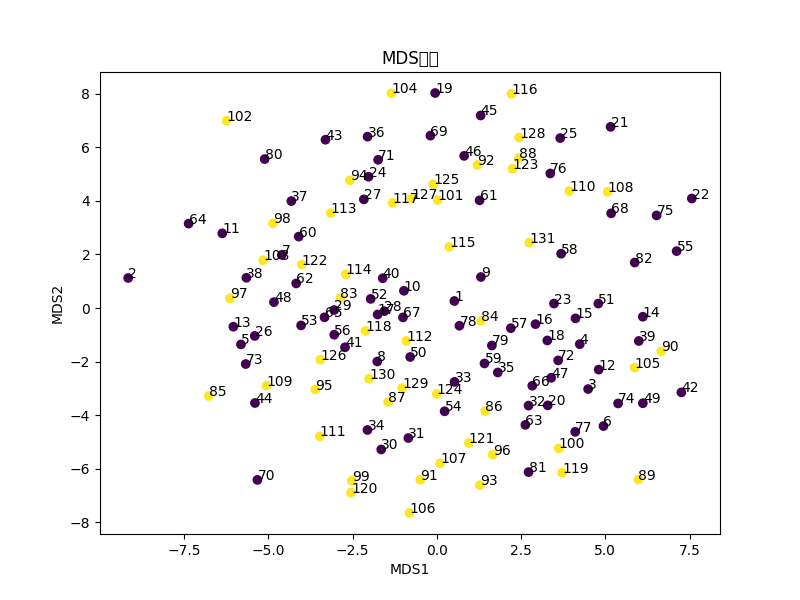
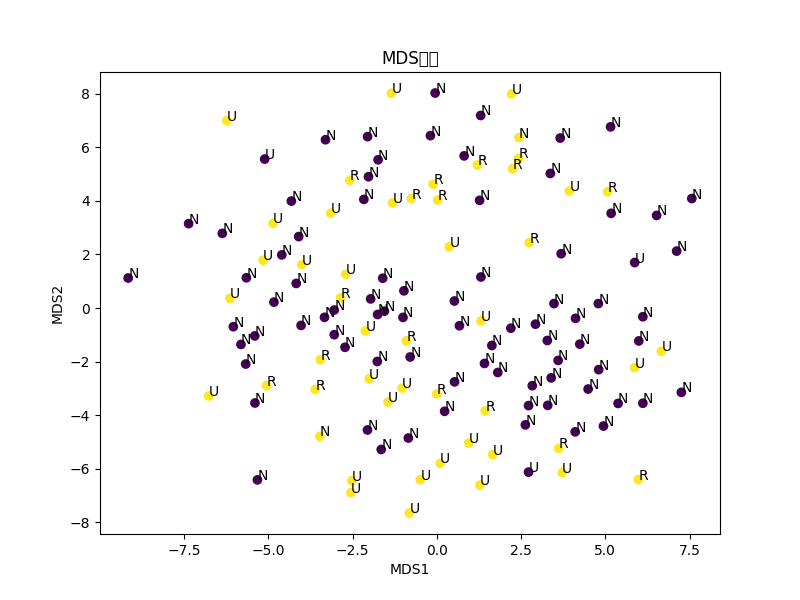
add visualization

diff --git a/src/parameterization.py b/src/parameterization.py
@@ -12,7 +12,7 @@ from AngioMorphPCA.L2distance import calculate_l2_distance
 from procrustes import rotational,generalized
 from tqdm import tqdm
 from AngioMorphPCA.compute_geometry import compute_curvature_and_torsion
-
+import pandas as pd
 
 root_dir = "save_orbits/24-04-03-14-59-10/"
 
@@ -21,7 +21,26 @@ min_reparam = np.load(root_dir+'min_reparam.npy',allow_pickle=True)
 resampled_unit_curves = np.load(root_dir+'resampled_unit_curves.npy',allow_pickle=True)
 colors = np.zeros(len(min_reparam))
 colors[82:]=1
-# print (min_reparam.shape)
+aneurisk_meta = pd.read_csv('aneuriskmeta.csv')
+
+# print (aneurisk_meta.case_id)
+aneurysmLocation = np.array(['N']*len(total_files))
+aneurysmType = np.array(['N']*len(total_files))
+ruptureStatus = np.array(['N']*len(total_files))
+sacVolume = np.zeros(len(total_files))
+for i in range(len(total_files)):
+    filename = total_files[i].split('\\')[-1].split('_')[0]
+    if filename in aneurisk_meta.case_id.values:
+        aneurysmLocation[i] = aneurisk_meta.loc[aneurisk_meta.case_id==filename].aneurysmLocation.values[0]
+        aneurysmType[i] = aneurisk_meta.loc[aneurisk_meta.case_id==filename].aneurysmType.values[0]
+        ruptureStatus[i] = aneurisk_meta.loc[aneurisk_meta.case_id==filename].ruptureStatus.values[0]
+        sacVolume[i] = aneurisk_meta.loc[aneurisk_meta.case_id==filename].sacVolume.values[0]
+
+print (aneurysmLocation)
+print (aneurysmType)
+print (ruptureStatus)
+print (sacVolume)
+
 def compute_srvf_distance(q1, q2):
     """
     计算两个SRVF之间的距离。
@@ -84,7 +103,7 @@ plt.title('MDS结果')
 plt.xlabel('MDS1')
 plt.ylabel('MDS2')
 for i, txt in enumerate(range(1, distance_matrix.shape[0]+1)):
-    plt.annotate(txt, (x[i], y[i]))
+    plt.annotate(ruptureStatus[i], (x[i], y[i]))
 plt.savefig(root_dir+'MDS.png')
 plt.close()
 
@@ -113,7 +132,7 @@ principal_components = pca.fit_transform(data_standardized)
 plt.figure(figsize=(8, 6))
 plt.scatter(principal_components[:, 0], principal_components[:, 1], c=colors, cmap='viridis')
 for i, txt in enumerate(range(1, distance_matrix.shape[0]+1)):
-    plt.annotate(txt, (principal_components[i, 0], principal_components[i, 1]))
+    plt.annotate(ruptureStatus[i], (principal_components[i, 0], principal_components[i, 1]))
 plt.title('PCA结果')
 plt.xlabel('主成分1')
 plt.ylabel('主成分2')

diff --git a/src/visualization.py b/src/visualization.py
@@ -1,0 +1,48 @@
+import numpy as np 
+import glob 
+import vtk
+from scipy.interpolate import interp1d
+import matplotlib.pyplot as plt
+from AngioMorphPCA.preprocessing import parameterize_curve
+from AngioMorphPCA.io import Get_simple_vtk
+from scipy.integrate import simps
+from AngioMorphPCA.GenerateDiffHemeo import generate_diff_homeomorphism
+from AngioMorphPCA.srvf_rep import compute_srvf_func, reconstruct_curve_from_srvf
+from AngioMorphPCA.L2distance import calculate_l2_distance
+from procrustes import rotational,generalized
+from tqdm import tqdm
+from AngioMorphPCA.compute_geometry import compute_curvature_and_torsion
+import pandas as pd
+
+
+# 定义旋转矩阵函数
+def rotate_y_matrix(theta):
+    theta = np.radians(theta)  # 将角度转换为弧度
+    return np.array([
+        [np.cos(theta), 0, np.sin(theta)],
+        [0, 1, 0],
+        [-np.sin(theta), 0, np.cos(theta)]
+    ])
+
+theta = 45  # 旋转角度，这里是45度
+
+root_dir = "save_orbits/24-04-03-14-59-10/"
+
+total_files = np.load("total_files.npy", allow_pickle=True)
+min_reparam = np.load(root_dir+'min_reparam.npy',allow_pickle=True)
+resampled_unit_curves = np.load(root_dir+'resampled_unit_curves.npy',allow_pickle=True)
+curves = []
+for i in range(len(total_files)):
+    curve = reconstruct_curve_from_srvf(min_reparam[i][:,:3], np.zeros(3))
+    curves.append(curve)
+curves = np.array(curves)
+
+fig = plt.figure(figsize=(3,10))
+ax = fig.add_subplot(111)
+for theta in [0,45,90]:
+    rotated_points = curves[7].dot(rotate_y_matrix(theta))
+    # rotated_points = resampled_unit_curves[0].dot(rotate_y_matrix(theta))
+    ax.plot(rotated_points[:,0], rotated_points[:,1],linewidth=1)
+    ax.scatter(rotated_points[::3,0], rotated_points[::3,1], s=15, c='k')
+ax.invert_yaxis()
+plt.show()

diff --git a/src/readaneuriskmeta.py b/src/readaneuriskmeta.py
@@ -12,7 +12,7 @@ lines = data.strip().split('\n')
 
 # 初始化用于保存分割数据的列表
 data_list = []
-
+给他
 # 遍历每行，使用正则表达式提取信息
 for line in lines:
     # 使用正则表达式匹配和分割数据
